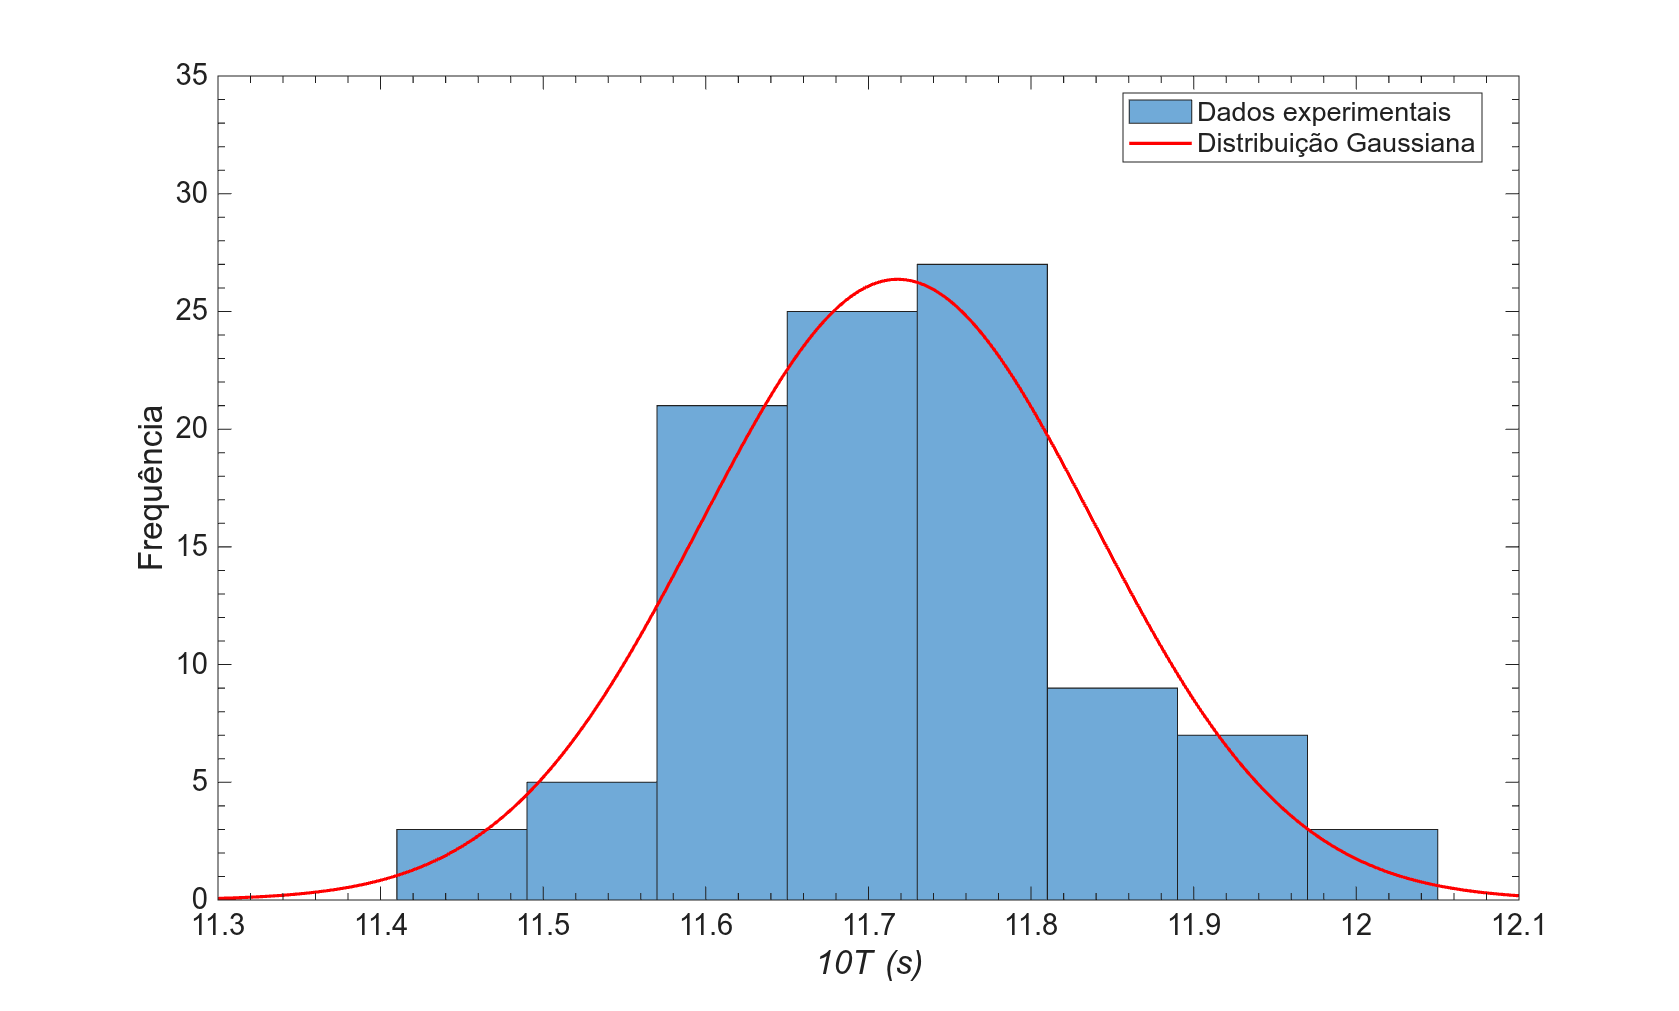
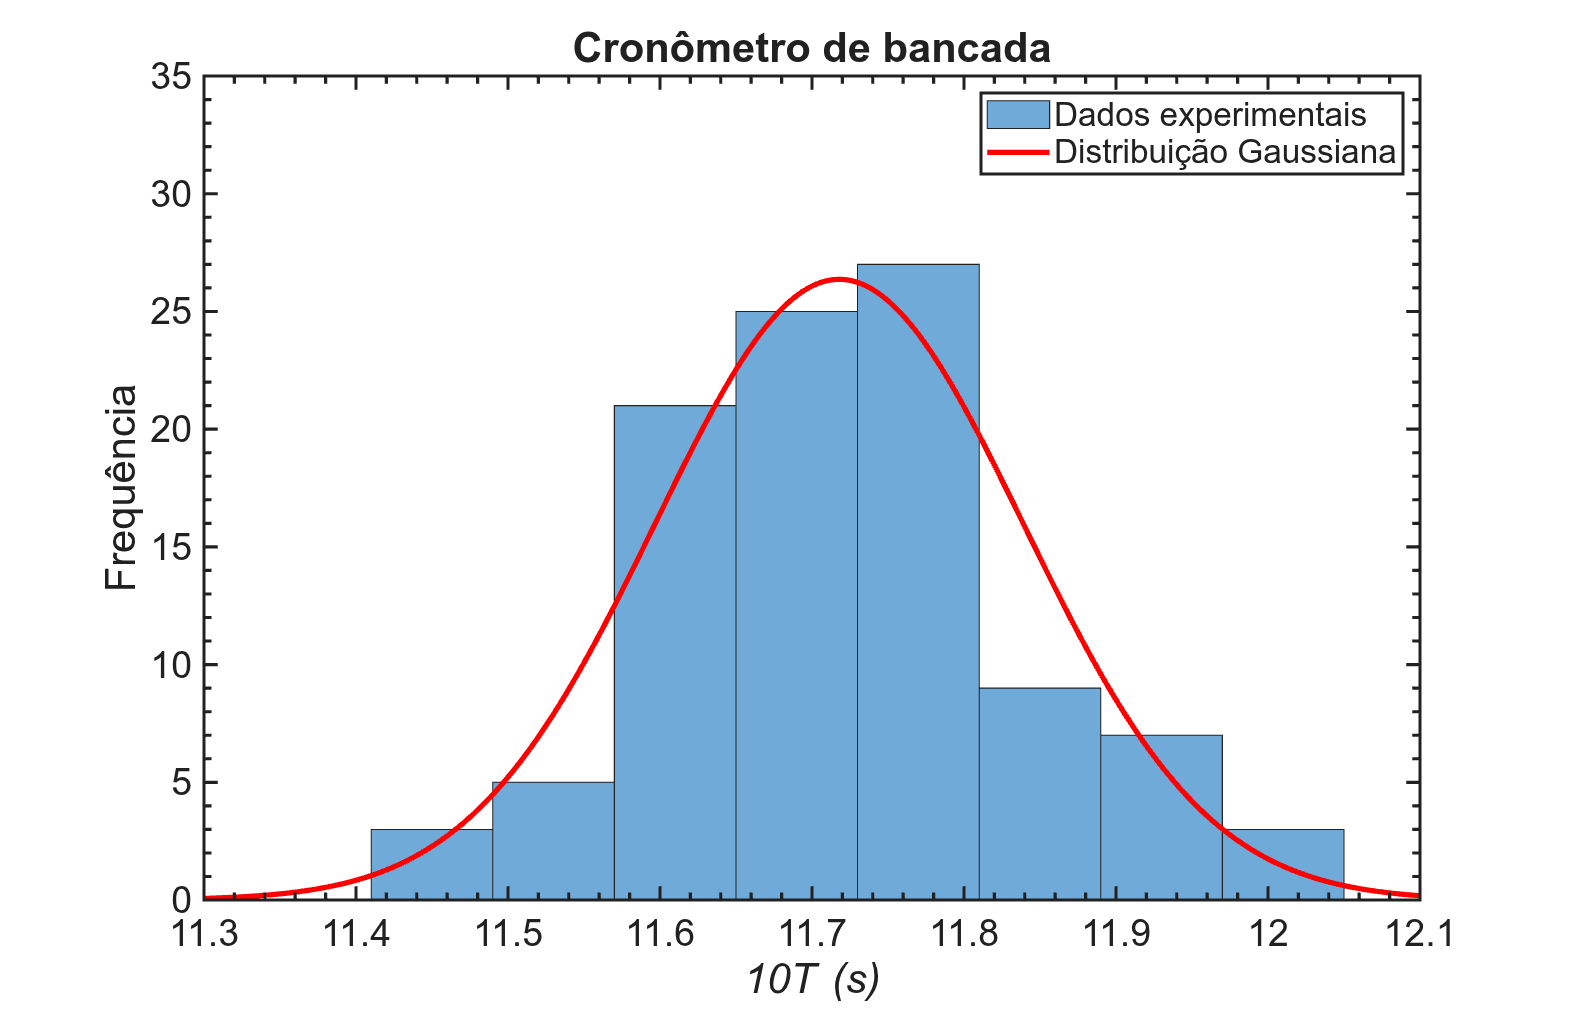
Ajustando figuras

diff --git a/relatorio1/Histograma_FIS_16.m b/relatorio1/Histograma_FIS_16.m
@@ -4,6 +4,8 @@ close all;
 
 arquivos = {'dados_cb.txt', 'dados_cm.txt'};
 
+titulos = {'Cronômetro de bancada', 'Cronômetro de mão'};
+
 %Limites dos gráficos
 graf_min = 11.3;
 graf_max = 12.1;
@@ -18,7 +20,6 @@ function y = nulo(x)
     y = 0 * x;
 end
 
-%Plotando os histrogramas
 for i = 1:length(arquivos)
 
     data = readmatrix(arquivos{i}, 'NumHeaderLines', 1);
@@ -44,45 +45,58 @@ for i = 1:length(arquivos)
 
     x = linspace(graf_min, graf_max, 200);
     g = plot(x, norm(x, n_exp, sigma_expec, data, h.BinWidth), ...
-        'r', 'LineWidth', 1.5);
+        'r', 'LineWidth', 2.5);
 
     legend([h g], {'Dados experimentais', 'Distribuição Gaussiana'}, ...
-        'FontSize', 13, 'Location', 'best');
+        'FontSize', 16, 'Location', 'northeast');
 
     axis([graf_min graf_max 0 35]);
 
     ax = gca;
-    ax.XAxis.FontSize = 14;
+    ax.XAxis.FontSize = 18;
     ax.XMinorTick = 'on';
     ax.YMinorTick = 'on';
-    ax.YAxis.FontSize = 14;
+    ax.YAxis.FontSize = 18;
+    ax.LineWidth = 1.5;
 
     tx = xlabel('\it{10T} (s)');
     ty = ylabel('Frequência');
-    tx.FontSize = 16;
-    ty.FontSize = 16;
+    tx.FontSize = 20;
+    ty.FontSize = 20;
+
+    title(titulos{i}, 'FontSize', 20, 'FontWeight', 'bold');
 end
 
-%Calculandos os coefs de determinação
 for i = 1:2
     r2(i) = sum(err(i,:) .^ 2) / sum((y_hist(i,:) - mean(y_hist(i,:))).^2);
     disp(r2(i));
 end
 
-%Plotando os desvios
-ferr = figure;
-tiledlayout(1,2);
-
 for i = 1:2
-    nexttile
+
+    ferr = figure;
+    ferr.Color = 'w';
+    ferr.Name = ['Desvios - ' arquivos{i}];
+
     hold on
     box on
 
-    p = plot(x_hist(i, :), err(i, :), 'b.', MarkerSize=17);
-    plot(x, nulo(x), '--');
-    legend('Desvios', 'Desvio nulo', fontsize = 13);
-    xlabel('$10T$ (s)', Interpreter='latex', FontSize=16);
-    ylabel('$f_{Gauss}-f_{hist}$', Interpreter='latex', FontSize=16);
-    ylim([-6 6]);
-end
+    p = plot(x_hist(i, :), err(i, :), 'b.', MarkerSize=22);
+    p0 = plot(x, nulo(x), '--', 'LineWidth', 2.5);
 
+    legend([p p0], 'Desvios', 'Desvio nulo', 'FontSize', 16);
+
+    xlabel('$10T$ (s)', Interpreter='latex', FontSize=20);
+    ylabel('$f_{Gauss}-f_{hist}$', Interpreter='latex', FontSize=20);
+
+    title(titulos{i}, 'FontSize', 20, 'FontWeight', 'bold');
+
+    ylim([-6 6]);
+
+    ax = gca;
+    ax.FontSize = 18;
+    ax.LineWidth = 1.5;
+    ax.XMinorTick = 'on';
+    ax.YMinorTick = 'on';
+
+end

diff --git a/relatorio1/Histograma_fotodiodo.m b/relatorio1/Histograma_fotodiodo.m
@@ -41,24 +41,33 @@ err = - y_hist + norm(x_hist, n_exp, sigma_expec, data, h.BinWidth);
 hold on;
 
 x = linspace(graf_min, graf_max, 200);
+
 g = plot(x, norm(x, n_exp, sigma_expec, data, h.BinWidth), ...
-    'r', 'LineWidth', 1.5);
+    'r', 'LineWidth', 2.5);
 
 legend([h g], {'Dados experimentais', 'Distribuição Gaussiana'}, ...
-    'FontSize', 13, 'Location', 'best');
+    'FontSize', 16, 'Location', 'northeast');
 
 axis([graf_min graf_max 0 35]);
 
 ax = gca;
-ax.XAxis.FontSize = 14;
+
+ax.XAxis.FontSize = 18;
+ax.YAxis.FontSize = 18;
+
 ax.XMinorTick = 'on';
 ax.YMinorTick = 'on';
-ax.YAxis.FontSize = 14;
 
-tx = xlabel('\it{T} (s)');
+ax.LineWidth = 1.5;
+
+tx = xlabel('\it{10T} (s)');
 ty = ylabel('Frequência');
-tx.FontSize = 16;
-ty.FontSize = 16;
+
+tx.FontSize = 20;
+ty.FontSize = 20;
+
+title('Fotodiodo', ...
+    'FontSize', 20, 'FontWeight', 'bold');
 
 ferr = figure;
 
@@ -66,10 +75,25 @@ nexttile
 hold on
 box on
 
-p = plot(x_hist, err, 'b.', MarkerSize=17);
-plot(x, nulo(x), '--');
-legend('Desvios', 'Desvio nulo', fontsize = 13);
-xlabel('$10T$ (s)', Interpreter='latex', FontSize=16);
-ylabel('$f_{Gauss}-f_{hist}$', Interpreter='latex', FontSize=16);
+p = plot(x_hist, err, 'b.', 'MarkerSize', 22);
+
+p0 = plot(x, nulo(x), '--', 'LineWidth', 2.5);
+
+lgd = legend([p p0], 'Desvios', 'Desvio nulo');
+lgd.FontSize = 16;
+
+xlabel('$10T$ (s)', 'Interpreter', 'latex', 'FontSize', 20);
+ylabel('$f_{Gauss}-f_{hist}$', 'Interpreter', 'latex', 'FontSize', 20);
+
+title('Fotodiodo', ...
+    'FontSize', 20, 'FontWeight', 'bold');
+
 ylim([-10 10]);
-xlim([1.189, 1.194]);
+xlim([1.189 1.194]);
+
+% Aparência dos eixos
+ax = gca;
+ax.FontSize = 18;
+ax.LineWidth = 1.5;
+ax.XMinorTick = 'on';
+ax.YMinorTick = 'on';
